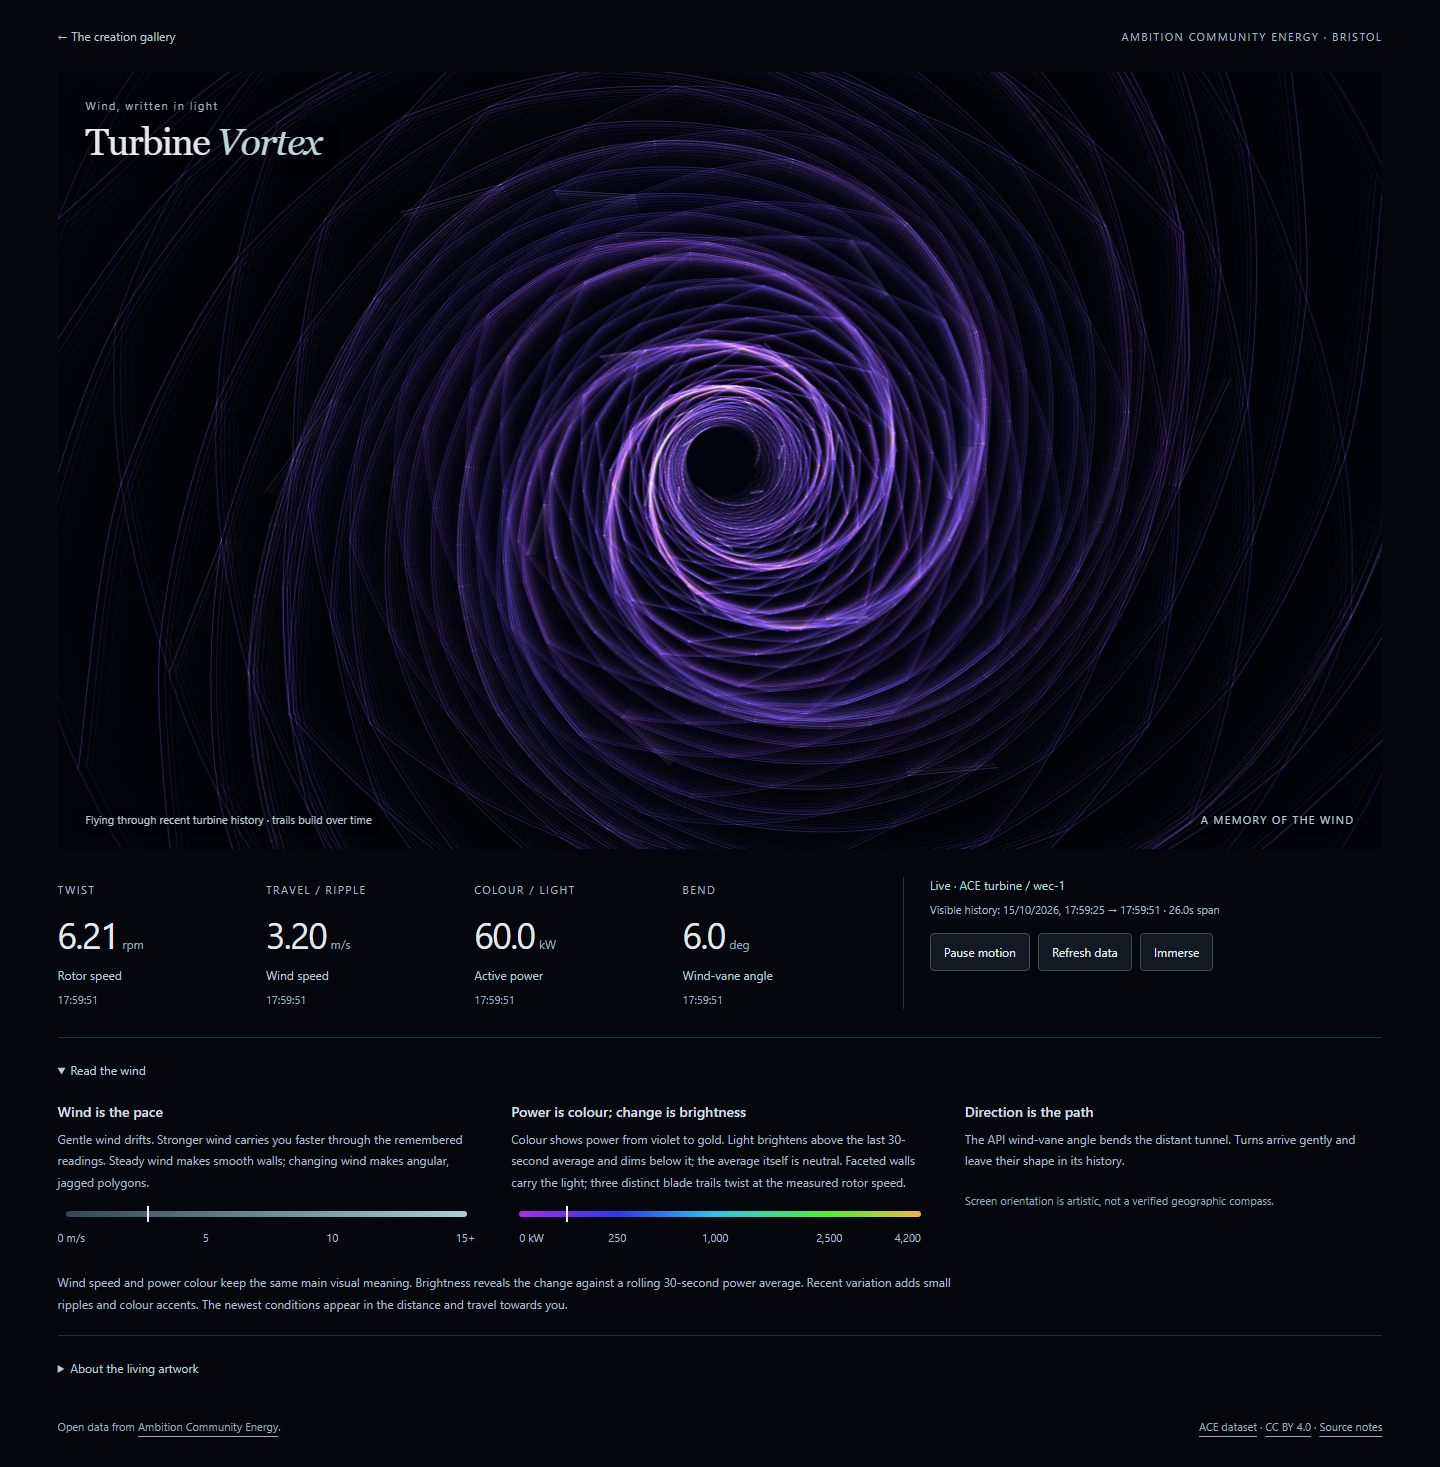
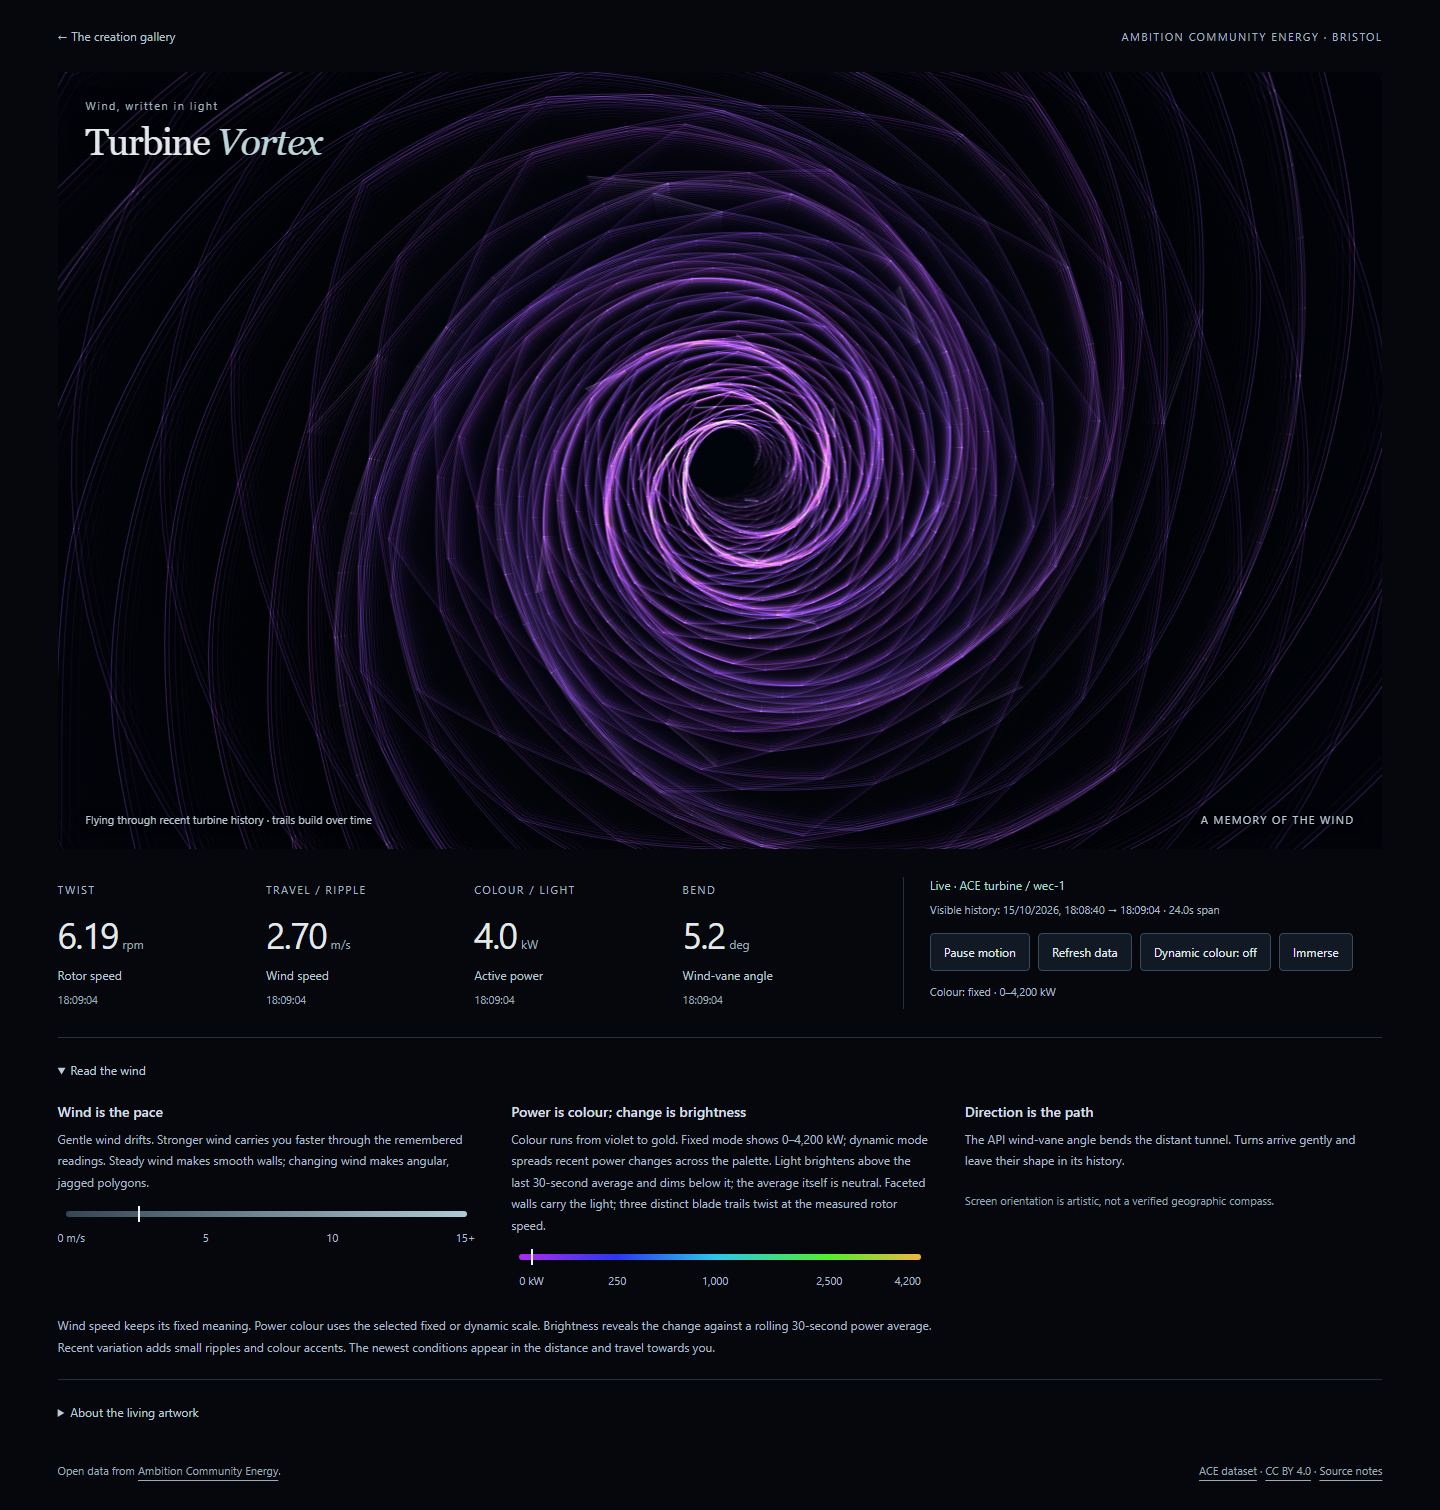
Add optional dynamic power colour scale

diff --git a/site/creations/turbine-vortex/index.html b/site/creations/turbine-vortex/index.html
@@ -13,12 +13,12 @@
 <div><span class="eyebrow">TRAVEL / RIPPLE</span><p><strong id="wind">—</strong> <span>m/s</span></p><span class="label">Wind speed</span><time id="wind-time">No observation</time></div>
 <div><span class="eyebrow">COLOUR / LIGHT</span><p><strong id="power">—</strong> <span>kW</span></p><span class="label">Active power</span><time id="power-time">No observation</time></div>
 <div><span class="eyebrow">BEND</span><p><strong id="direction">—</strong> <span>deg</span></p><span class="label">Wind-vane angle</span><time id="direction-time">No observation</time></div>
-</div><div class="connection"><p id="status" role="status">Connecting to ACE…</p><p id="observed">No readings yet</p><div class="controls"><button id="pause" type="button" aria-pressed="false">Pause motion</button><button id="refresh" type="button">Refresh data</button><button id="fullscreen" type="button">Immerse</button></div></div></section>
+</div><div class="connection"><p id="status" role="status">Connecting to ACE…</p><p id="observed">No readings yet</p><div class="controls"><button id="pause" type="button" aria-pressed="false">Pause motion</button><button id="refresh" type="button">Refresh data</button><button id="colour-toggle" type="button" aria-pressed="false">Dynamic colour: off</button><button id="fullscreen" type="button">Immerse</button></div><p id="colour-scale-status" class="colour-scale-status">Colour: fixed · 0–4,200 kW</p></div></section>
 <details class="reading-guide" open><summary>Read the wind</summary><div class="legend-grid">
 <div><h2>Wind is the pace</h2><p>Gentle wind drifts. Stronger wind carries you faster through the remembered readings. Steady wind makes smooth walls; changing wind makes angular, jagged polygons.</p><div class="scale wind-scale" aria-hidden="true"><i id="wind-marker"></i></div><div class="scale-labels"><span>0 m/s</span><span>5</span><span>10</span><span>15+</span></div></div>
-<div><h2>Power is colour; change is brightness</h2><p>Colour shows power from violet to gold. Light brightens above the last 30-second average and dims below it; the average itself is neutral. Faceted walls carry the light; three distinct blade trails twist at the measured rotor speed.</p><div class="scale power-scale" aria-hidden="true"><i id="power-marker"></i></div><div class="power-labels"><span style="--at:0%">0 kW</span><span style="--at:24.4%">250</span><span style="--at:48.8%">1,000</span><span style="--at:77.2%">2,500</span><span style="--at:100%">4,200</span></div></div>
+<div><h2>Power is colour; change is brightness</h2><p>Colour runs from violet to gold. Fixed mode shows 0–4,200 kW; dynamic mode spreads recent power changes across the palette. Light brightens above the last 30-second average and dims below it; the average itself is neutral. Faceted walls carry the light; three distinct blade trails twist at the measured rotor speed.</p><div class="scale power-scale" aria-hidden="true"><i id="power-marker"></i></div><div class="power-labels" id="power-labels"><span style="--at:0%">0 kW</span><span style="--at:24.4%">250</span><span style="--at:48.8%">1,000</span><span style="--at:77.2%">2,500</span><span style="--at:100%">4,200</span></div></div>
 <div><h2>Direction is the path</h2><p>The API wind-vane angle bends the distant tunnel. Turns arrive gently and leave their shape in its history.</p><p class="quiet-note">Screen orientation is artistic, not a verified geographic compass.</p></div>
-</div><p class="guide-note">Wind speed and power colour keep the same main visual meaning. Brightness reveals the change against a rolling 30-second power average. Recent variation adds small ripples and colour accents. The newest conditions appear in the distance and travel towards you.</p></details>
+</div><p class="guide-note">Wind speed keeps its fixed meaning. Power colour uses the selected fixed or dynamic scale. Brightness reveals the change against a rolling 30-second power average. Recent variation adds small ripples and colour accents. The newest conditions appear in the distance and travel towards you.</p></details>
 <details class="technical-notes"><summary>About the living artwork</summary><div class="explanation"><p>Measured RPM turns three distinct blade trails, spaced 120 degrees apart, together with the polygonal walls. The three-blade motion uses the measured RPM; a separate slow artistic roll turns the whole scene. The rotor itself is hidden; this is an artistic wake, not a fluid simulation. Wind controls travel and ripples, power controls colour and streak density while its deviation from a 30-second mean controls brightness, and wind-vane angle steers the tunnel. These are artistic mappings, not a physical simulation. History builds from live readings during this visit; startup geometry uses the first reading throughout.</p><p>One combined request every two seconds. Observation timestamps come from the data, displayed in your local timezone. The visible-history span shows the oldest and newest observations still represented. Freshness uses API-relative signal ages and elapsed time since observations advance, not differences from the computer clock. If any signal is invalid, unavailable or stops advancing for over 60 seconds, the artwork rests with labelled retained readings. No simulated readings replace live data.</p><p>Immerse fills the screen. Its controls fade after six seconds of inactivity; move, tap or use the keyboard to bring them back. Connection warnings remain visible. Pause and reduced-motion support are available throughout.</p></div></details>
 <footer><span>Open data from <a href="https://ambitioncommunityenergy.org/">Ambition Community Energy</a>.</span><span><a href="https://doi.org/10.5281/zenodo.22662372">ACE dataset</a> · <a href="https://creativecommons.org/licenses/by/4.0/">CC BY 4.0</a> · <a href="./README.md">Source notes</a></span></footer>
 </main><script type="module" src="./artwork.mjs"></script></body></html>

diff --git a/site/creations/turbine-vortex/style.css b/site/creations/turbine-vortex/style.css
@@ -199,6 +199,7 @@ margin:13px 8px 0;
 color:#acbdc8;
 font-size:11px}
 .power-labels span{
+white-space:nowrap;
 position:absolute;
 left:var(--at);
 transform:translateX(-50%)}
@@ -339,3 +340,7 @@ transition:none}
 
 
 main:fullscreen .art-caption { display:none; }
+
+.colour-scale-status { font-size:11px; line-height:1.6; color:#a8b9c5; margin:12px 0 0; }
+#colour-toggle[aria-pressed="true"] { background:#263a46; border-color:#9fc8d6; }
+.power-labels [hidden] { display:none; }

diff --git a/site/creations/turbine-vortex/browser-check.py b/site/creations/turbine-vortex/browser-check.py
@@ -76,6 +76,18 @@ def run():
         frozen = page.locator('canvas').evaluate('(c) => c.toDataURL()')
         page.wait_for_timeout(200)
         assert frozen == page.locator('canvas').evaluate('(c) => c.toDataURL()'), 'Pause did not stop motion'
+        page.locator('#colour-toggle').click()
+        assert page.locator('#colour-toggle').get_attribute('aria-pressed') == 'true'
+        assert 'Colour: dynamic' in page.locator('#colour-scale-status').inner_text()
+        assert page.locator('#power-labels span:not([hidden])').count() == 2
+        dynamic_pixels = page.locator('canvas').evaluate('(c) => c.toDataURL()')
+        assert dynamic_pixels != frozen, 'Palette toggle did not redraw paused artwork'
+        page.wait_for_timeout(200)
+        assert dynamic_pixels == page.locator('canvas').evaluate('(c) => c.toDataURL()'), 'Palette toggle resumed motion'
+        page.locator('#colour-toggle').click()
+        assert page.locator('#colour-toggle').get_attribute('aria-pressed') == 'false'
+        assert 'Colour: fixed' in page.locator('#colour-scale-status').inner_text()
+        assert page.locator('#power-labels span:not([hidden])').count() == 5
         page.locator('#pause').click()
         page.locator('#pause').focus()
         page.keyboard.press('Tab')
@@ -141,6 +153,10 @@ def run():
         live.wait_for_function("document.querySelector('#status').textContent.startsWith('Live')", timeout=30000)
         live.wait_for_timeout(25000)
         live.screenshot(path=str(ROOT / 'site/images/creations/turbine-vortex.png'), full_page=True)
+        live.locator('#colour-toggle').click()
+        live.wait_for_timeout(2000)
+        live.screenshot(path=str(Path(tempfile.gettempdir()) / 'turbine-vortex-dynamic-colour.png'), full_page=True)
+        assert 'Colour: dynamic' in live.locator('#colour-scale-status').inner_text()
         print('Live browser readings:', json.dumps(live.locator('.readings').inner_text(), ensure_ascii=True))
         print('Screenshot:', ROOT / 'site/images/creations/turbine-vortex.png')
         assert not errors, errors

diff --git a/site/creations/turbine-vortex/README.md b/site/creations/turbine-vortex/README.md
@@ -73,3 +73,7 @@ The calmer local treatment dims the three spirals by about 24%, reduces wall fil
 A uniform artistic roll of 0.025 radians/second (one turn in about 4 minutes 11 seconds) rotates the whole live scene, including its bend. This is added separately to the measured 1.0 RPM blade phase; apparent screen rotation includes both. It freezes on pause or unavailable/stale data, whose straight tunnel remains unrotated. No extra history buffers are added.
 
 Wind-direction bend uses an exaggerated artistic angle `clamp(4 × vane angle, -120°, 120°)`. This makes the small signed vane changes feel like a stronger turn without looping around for large readings. The raw data readout remains unchanged. The centred source, zero-direction straight path, depth envelope, eight-second direction smoothing and slow scene roll remain in place.
+
+## Optional dynamic colour
+
+The Dynamic colour button switches between the default fixed 0–4,200 kW palette and a more expressive recent-power palette. Dynamic mode uses a separate five-minute buffer of distinct valid power observations (maximum 512), a smoothed 10th–90th percentile range, a 25 kW minimum span and a 30-second adaptation constant. The minimum span prevents tiny noise from filling the palette. Recent-range endpoints are visible beside the controls and on the legend; they may extend below zero at low generation. Actual readings remain unchanged. The dynamic colour position eases over 1.2 seconds, then travels with its historical layer, so past colour differences persist. Fixed and dynamic colour meanings are different; the current mode is always labelled. The toggle clears old pixel afterimages and redraws retained geometry, including while paused, without starting motion or making an API request. Reloading returns to fixed mode. No new API traffic or persistent storage is added.
